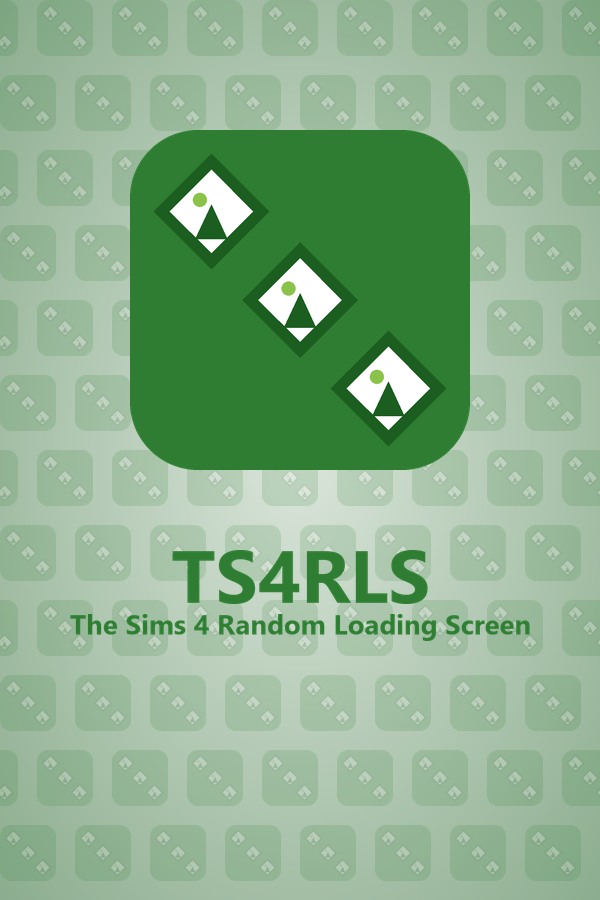
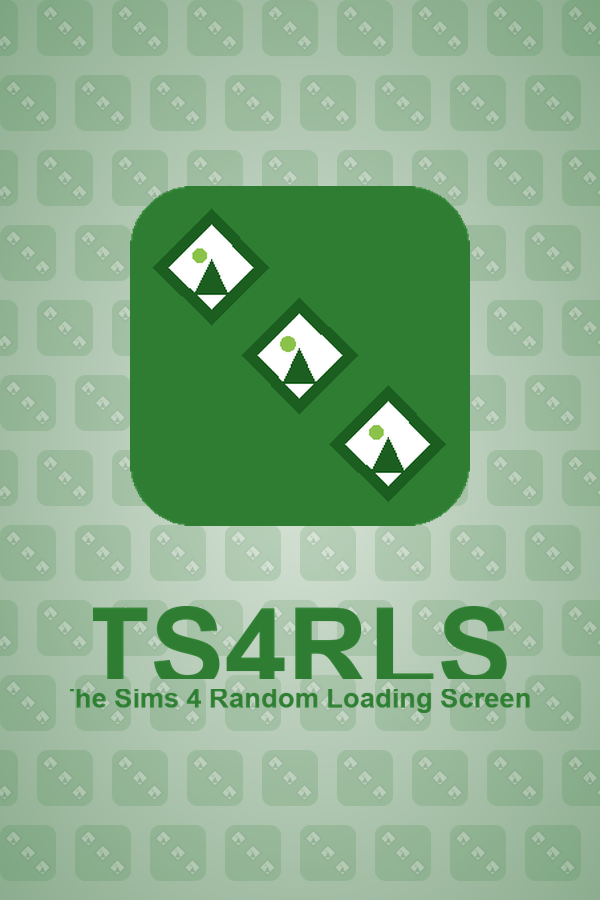
Release v5.0.1
See CHANGELOG.md for details.

Changed region(s): [[0.12, 0.1244, 0.9, 0.8089]]

diff --git a/src/scripts/build_release_files.py b/src/scripts/build_release_files.py
@@ -1,8 +1,8 @@
 """Builds the files a GitHub Release needs: the standalone TS4RLS
 executable, and TS4RLS_Steam_Assets.zip.
 
-Run with: python scripts/build_release_files.py            (the exe)
-          python scripts/build_release_files.py --steam-zip (the zip)
+Run with: python src/scripts/build_release_files.py            (the exe)
+          python src/scripts/build_release_files.py --steam-zip (the zip)
 Installs its own dependencies (requirements.txt + PyInstaller) first, no
 separate build.bat/build.sh wrapper or manual `pip install` needed.
 
@@ -25,7 +25,7 @@ from pathlib import Path
 IS_WINDOWS = sys.platform == "win32"
 IS_MACOS = sys.platform == "darwin"
 
-REPO_ROOT = Path(__file__).resolve().parent.parent
+REPO_ROOT = Path(__file__).resolve().parent.parent.parent
 if str(REPO_ROOT) not in sys.path:
     sys.path.insert(0, str(REPO_ROOT))  # so `from src.common import app_state` resolves below
 
@@ -65,7 +65,7 @@ COMMON_ARGS = [
 
 def ensure_dependencies() -> None:
     # No build.bat/build.sh wrapper to install these first - this script
-    # is run directly (`python scripts/build_release_files.py`), so it
+    # is run directly (`python src/scripts/build_release_files.py`), so it
     # installs its own runtime + build dependencies before importing
     # PyInstaller.
     subprocess.check_call(

diff --git a/src/build/steam_asset_builder.py b/src/build/steam_asset_builder.py
@@ -151,10 +151,27 @@ def build_cover(icon: Image.Image, title, subtitle) -> Image.Image:
     canvas = _textured_background(size, tile_size=56, opacity=0.16, icon=icon)
 
     big_icon = _scaled(icon, 340)
-    _paste_centered(canvas, big_icon, size[0] // 2, 300)
+    target_subtitle_width = 460
+    gap = 10
+    icon_text_gap = 80
 
-    text_top = 300 + big_icon.height // 2 + 80
-    _paste_stacked_wordmark(canvas, title, subtitle, target_subtitle_width=460, cx=size[0] // 2, top_y=text_top)
+    # Figure out the wordmark's scaled height up front (same formula
+    # _paste_stacked_wordmark uses internally) so the icon+text group can
+    # be centered as one block instead of the icon sitting at a fixed y.
+    factor = target_subtitle_width / subtitle.width
+    title_h = int(title.height * factor)
+    subtitle_h = int(subtitle.height * factor)
+
+    total_height = big_icon.height + icon_text_gap + title_h + gap + subtitle_h
+    top = (size[1] - total_height) // 2
+
+    _paste_centered(canvas, big_icon, size[0] // 2, top + big_icon.height // 2)
+
+    text_top = top + big_icon.height + icon_text_gap
+    _paste_stacked_wordmark(
+        canvas, title, subtitle, target_subtitle_width=target_subtitle_width,
+        cx=size[0] // 2, top_y=text_top, gap=gap,
+    )
 
     return canvas.convert("RGB")
 

diff --git a/src/gui/main_window.py b/src/gui/main_window.py
@@ -419,7 +419,7 @@ class MainWindow(QMainWindow):
         # _run_build_executables), not the main app -- this shows *that*
         # build's result, same data as the Home tab's own "Runner build"
         # box (app_state.load_runner_build()), not the unrelated history
-        # of `python scripts/build_release_files.py` runs (which this
+        # of `python src/scripts/build_release_files.py` runs (which this
         # tab's button hasn't triggered since the Qt migration).
         history_box = QGroupBox("Runner build")
         self.history_list_layout = QVBoxLayout(history_box)
@@ -549,7 +549,7 @@ class MainWindow(QMainWindow):
     # works from a shipped exe too -- it only needs a system Python (same
     # find_python() the subprocess actions already used) capable of
     # running PyInstaller, not the app's own bundled runtime. Rebuilding
-    # TS4RLS itself from source is still `python scripts/build_release_files.py`,
+    # TS4RLS itself from source is still `python src/scripts/build_release_files.py`,
     # just without a GUI button for it.
 
     def _run_build_executables(self) -> None:

diff --git a/gui.py b/gui.py
@@ -5,7 +5,7 @@ Run standalone:
     python gui.py              -> GUI
     python gui.py --generate   -> headless, one-shot
 
-Use scripts/build_release_files.py to build the executable.
+Use src/scripts/build_release_files.py to build the executable.
 """
 
 import os
@@ -22,7 +22,7 @@ ICON_PATH = paths.resource_path(os.path.join("assets", "icon.ico"))
 
 
 def _attach_parent_console():
-    # The exe is built --windowed (see scripts/build_release_files.py),
+    # The exe is built --windowed (see src/scripts/build_release_files.py),
     # so it has no console of its own -- print() below would otherwise go
     # nowhere. If this was launched from an existing terminal, attach to
     # it and rebind stdout/stderr so --generate's output actually shows up

diff --git a/runner.py b/runner.py
@@ -1,9 +1,9 @@
 """
 TS4RLS runner — a separate, minimal, GUI-less entry point, compiled to its
-own executable (see the Build tab's "Build executable" button, or
-`python scripts/build_release_files.py --runner`) for use OUTSIDE the main
-app: as a Steam "non-Steam game" launch target, or a CurseForge/Overwolf
-custom launch executable.
+own executable by the Build tab's "Build executable" button (see
+src/gui/runner_builder.py) for use OUTSIDE the main app: as a Steam
+"non-Steam game" launch target, or a CurseForge/Overwolf custom launch
+executable.
 
 Running the built runner regenerates the loading screen from the current
 config.json, then launches the game -- no window or console of its own,

diff --git a/src/scripts/generate_icon.py b/src/scripts/generate_icon.py
@@ -1,7 +1,7 @@
 """One-off generator for assets/icon.png, assets/icon.ico, assets/icon.icns,
 assets/logo.png.
 
-Run with: python scripts/generate_icon.py
+Run with: python src/scripts/generate_icon.py
 Requires Pillow (dev-only; not a runtime dependency of the app itself).
 
 Reproduces the existing hand-made icon/logo in code: three "photo frame"
@@ -14,7 +14,7 @@ from pathlib import Path
 
 from PIL import Image, ImageDraw, ImageFont
 
-ASSETS = Path(__file__).resolve().parent.parent / "assets"
+ASSETS = Path(__file__).resolve().parent.parent.parent / "assets"
 ASSETS.mkdir(exist_ok=True)
 
 BG = (46, 125, 50, 255)      # green 800 - background, and the wordmark text

diff --git a/tests/test_build_release_files.py b/tests/test_build_release_files.py
@@ -1,5 +1,5 @@
 """
-Unit tests for scripts/build_release_files.py.
+Unit tests for src/scripts/build_release_files.py.
 
 Only the pure, platform-dependent helper logic is tested here. Actually
 invoking ensure_dependencies()/build_gui() would shell out to pip/
@@ -8,7 +8,7 @@ build concern, not unit-testable logic, so it is intentionally left
 uncovered (see report). build_steam_zip() is covered directly since it's
 pure Python with no subprocess/PyInstaller involved.
 """
-from scripts import build_release_files as builder
+from src.scripts import build_release_files as builder
 
 
 def _patch_repo_root(monkeypatch, tmp_path):

diff --git a/src/gui/runner_builder.py b/src/gui/runner_builder.py
@@ -8,7 +8,7 @@ Only used by the GUI itself -- main_window.py's Build tab runs this as a
 subprocess (via the same system Python find_python() already locates for
 the test-suite action), not something a developer invokes directly or CI
 ever runs. It works from a shipped exe too, unlike
-scripts/build_release_files.py, since it only needs a system Python
+src/scripts/build_release_files.py, since it only needs a system Python
 capable of running PyInstaller, not the app's own bundled runtime.
 
 Run with: python -m src.gui.runner_builder [--name=NAME]

diff --git a/src/cli/cli_colors.py b/src/cli/cli_colors.py
@@ -8,7 +8,7 @@ import os
 import sys
 
 # sys.stdout is None in a --windowed PyInstaller build (see
-# scripts/build_release_files.py) until/unless gui.py's
+# src/scripts/build_release_files.py) until/unless gui.py's
 # _attach_parent_console() rebinds it -- which happens after this module
 # is first imported, via gui.py's own `from src.cli import config_editor`
 # chain -- so this can't assume sys.stdout is a real stream yet.

diff --git a/src/cli/config_editor.py b/src/cli/config_editor.py
@@ -1,6 +1,6 @@
 """
 config.json read/write helpers, shared by gui.py (Build tab) and
-scripts/build_release_files.py. Not a CLI tool itself — the interactive
+src/scripts/build_release_files.py. Not a CLI tool itself — the interactive
 config wizard was removed along with the rest of the text-menu CLI; the
 GUI's Build tab is the only editor now.
 """

diff --git a/CONTRIBUTING.md b/CONTRIBUTING.md
@@ -23,14 +23,14 @@ gui.py       single entry point at the repo root — thin launcher for the
              PySide6/Qt GUI (Home, Build, About tabs; see src/gui/), and
              (--generate) a headless one-shot run. This is what gets
              compiled into the distributed executable.
-scripts/    dev/CI-only tooling — not used by the app itself at runtime
-  build_release_files.py  builds the release TS4RLS executable, or
-                           (--steam-zip) TS4RLS_Steam_Assets.zip
-  generate_icon.py        regenerates assets/icon.png/.ico/.icns/logo.png
 runner.py   separate, minimal, GUI-less entry point for the standalone
             runner executable (see src/gui/runner_builder.py) — a Steam/
             CurseForge launch-target replacement, not the main app
 src/
+  scripts/  dev/CI-only tooling — not used by the app itself at runtime
+    build_release_files.py  builds the release TS4RLS executable, or
+                             (--steam-zip) TS4RLS_Steam_Assets.zip
+    generate_icon.py        regenerates assets/icon.png/.ico/.icns/logo.png
   common/   config_format.py (JSONC parse/dump), paths.py (config/asset
             location resolution), app_state.py (disclaimer flag + recent
             build history, kept separate from user-editable config.json),
@@ -47,7 +47,7 @@ dist/       built executables land here (gitignored) — not the repo root
 
 There is no text-menu CLI — the GUI is the only interactive interface.
 Run `python gui.py` from source to launch it directly; end users instead
-download the executable built by `scripts/build_release_files.py`.
+download the executable built by `src/scripts/build_release_files.py`.
 
 ## Making a change
 
@@ -72,8 +72,8 @@ loading correctly in-game, the executable build), verify manually:
 - Run `python gui.py --generate` against a real
   `images_folder`/`mods_folder` and confirm the loading
   screen changes in-game. `python gui.py` with no args opens the GUI.
-- If you touched `scripts/build_release_files.py`, rebuild the
-  executable locally (`python scripts/build_release_files.py`) and
+- If you touched `src/scripts/build_release_files.py`, rebuild the
+  executable locally (`python src/scripts/build_release_files.py`) and
   confirm the built app in `dist/` still launches (GUI by default,
   `--generate` from a terminal) and produces the same result as running
   `gui.py` directly.

diff --git a/README.md b/README.md
@@ -6,7 +6,7 @@
 
 Automatically picks a random image from a folder and installs it as your Sims 4 loading screen mod — run it, then launch the game yourself and get a fresh screen every time.
 
-**Version 5.0.0** — see [CHANGELOG.md](CHANGELOG.md) for release history.
+**Version 5.0.1** — see [CHANGELOG.md](CHANGELOG.md) for release history.
 
 Website: https://ts4rls.stuxie.dev  
 Repository: https://github.com/TS4RLS/Engine  
@@ -126,7 +126,7 @@ just download the executable above.
   missing).
 - `python gui.py` (GUI) or `python gui.py --generate` (headless) run the
   app directly without building anything.
-- `python scripts/build_release_files.py` builds `TS4RLS`(`.exe`) into
+- `python src/scripts/build_release_files.py` builds `TS4RLS`(`.exe`) into
   `dist/`. PyInstaller can't cross-compile, so build on each platform you
   want a native executable for.
 - `pytest -v` runs the test suite (`.github/workflows/ci.yml` runs the same
